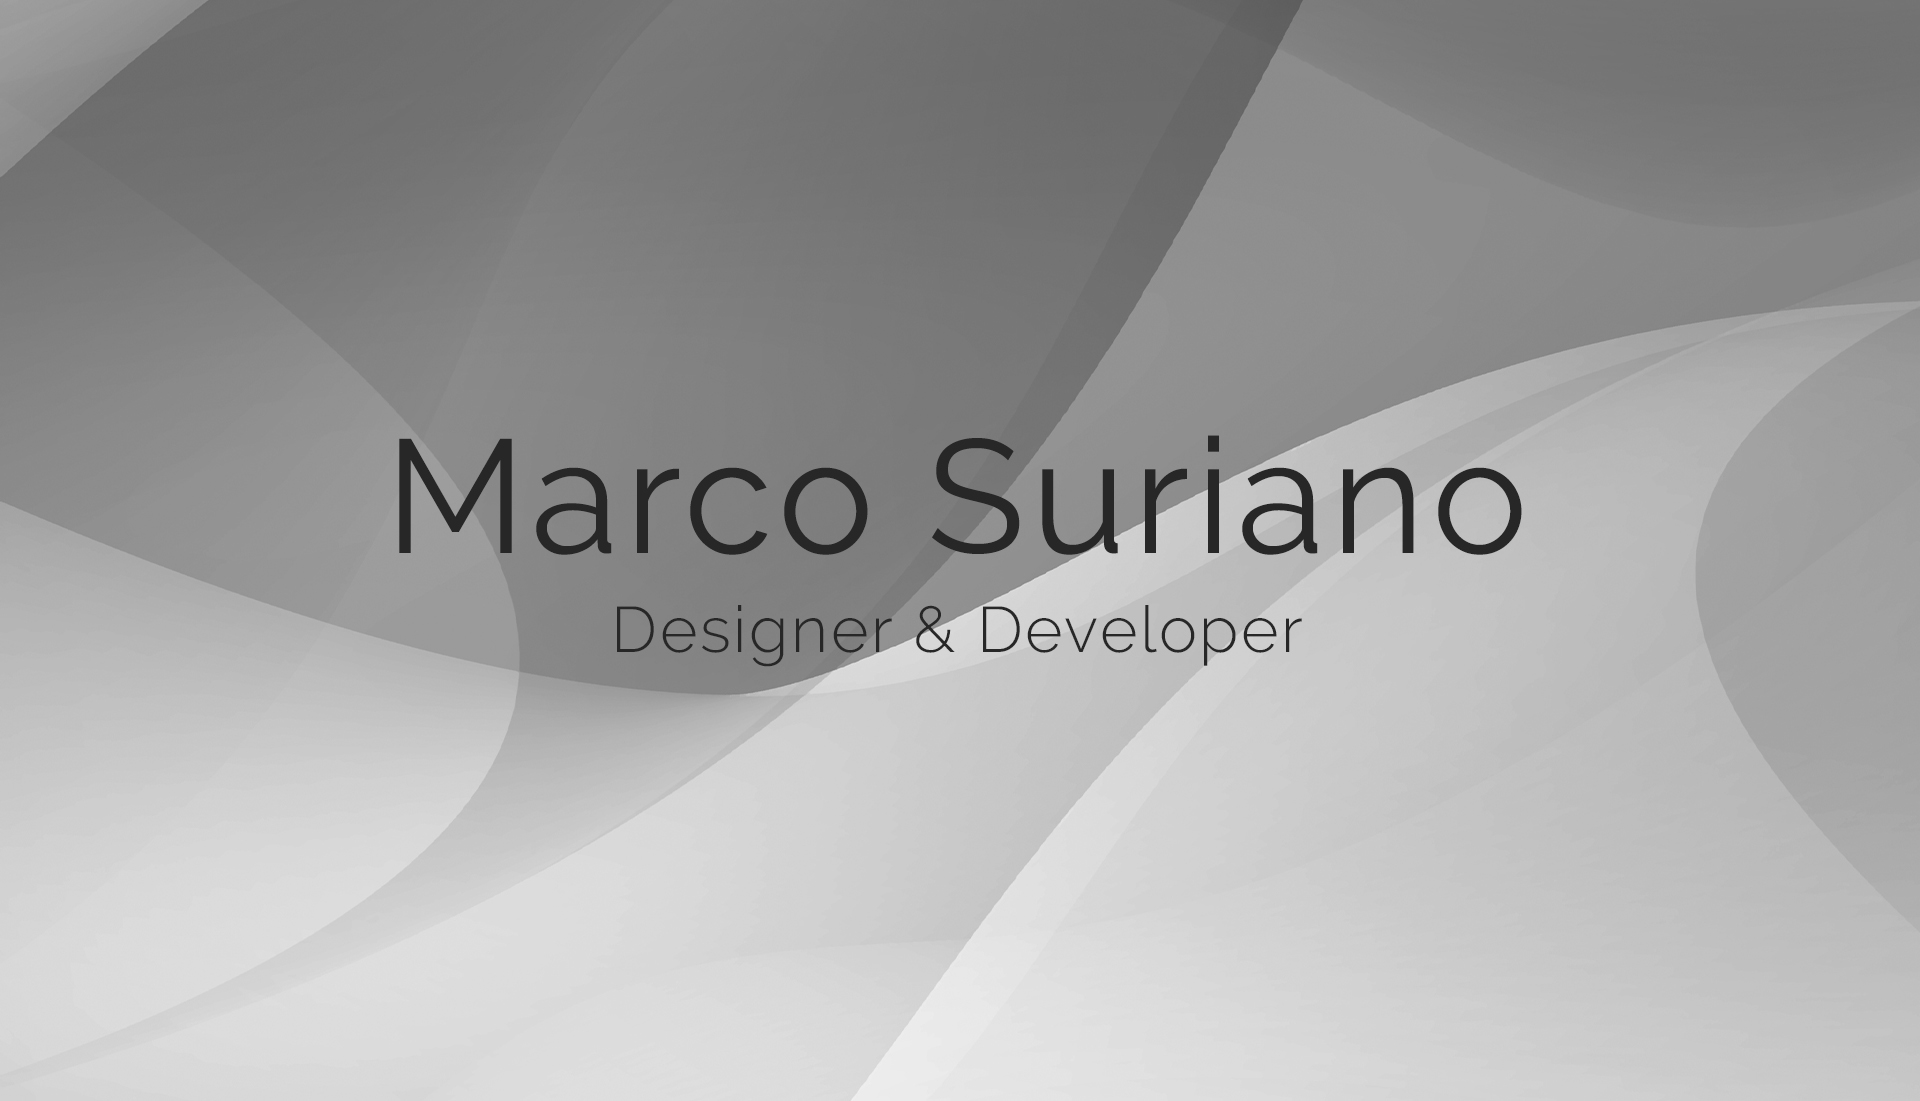
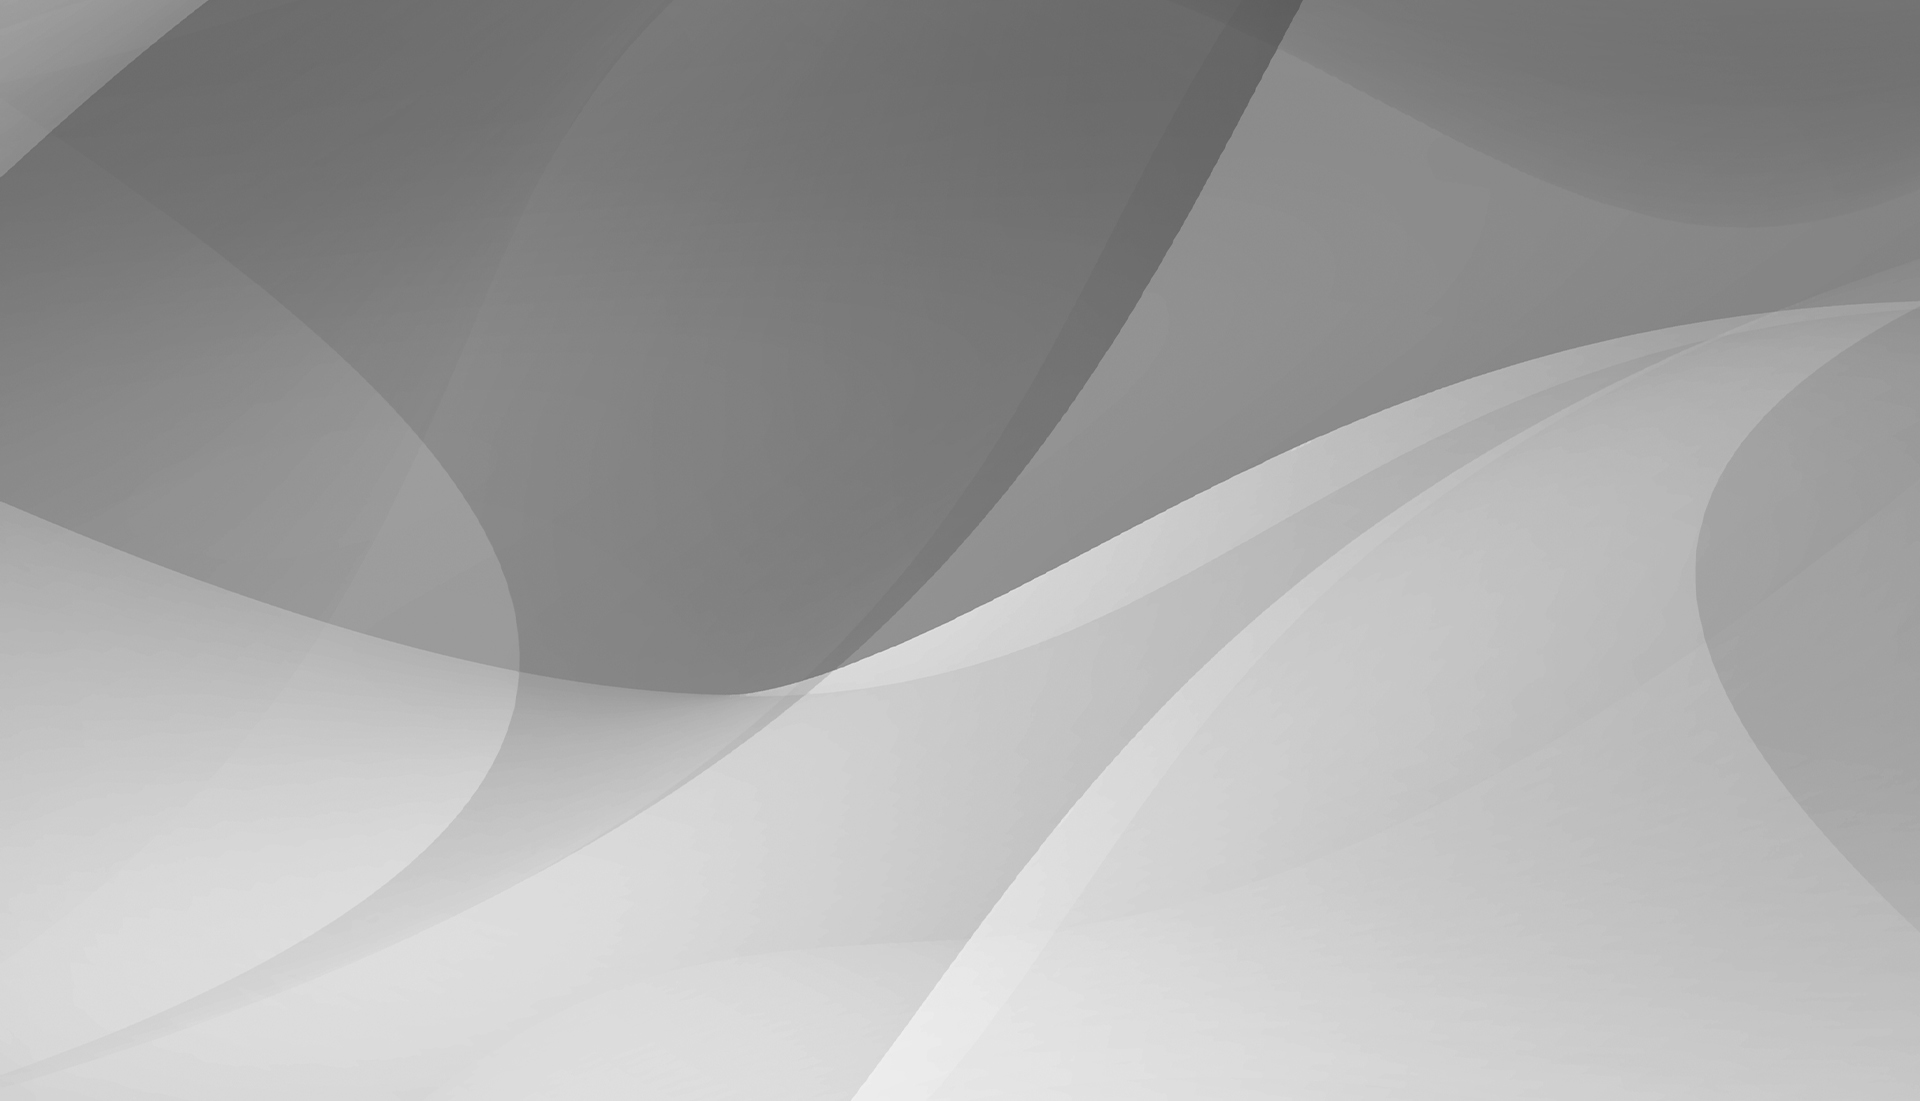
Add

Changed region(s): [[0.1875, 0.4015, 0.8125, 0.525], [0.3125, 0.5559, 0.6875, 0.6176]]

diff --git a/assets/css/style.css b/assets/css/style.css
@@ -389,15 +389,16 @@ canvas {
 
 #hero h1 {
   margin: 0;
-  font-size: 60px;
+  font-size: 100px;
   font-weight: 700;
   color: #fff;
 }
 
 #hero h2 {
-  color: rgb(129, 129, 129);
+  color: rgb(37, 37, 37);
+  display: block;
   margin: 15px 0 0 0;
-  font-size: 18px;
+  font-size: 23px;
 }
 
 #hero .btn-get-started {
@@ -426,10 +427,10 @@ canvas {
     padding-top: 58px;
   }
   #hero h1 {
-    font-size: 28px;
+    font-size: 60px;
   }
   #hero h2 {
-    font-size: 18px;
+    font-size: 22px;
     line-height: 24px;
   }
 }

diff --git a/index.html b/index.html
@@ -58,14 +58,13 @@
 
   <!-- ======= Hero Section ======= -->
   <section id="hero" class="d-flex align-items-center">
-
-    <div class="container" data-aos="zoom-out" data-aos-delay="100">
-      <div class="row">
-        <div class="col-xl-6">
-        </div>
-      </div>
-    </div>
+    <div class="hero1" data-aos="zoom-out" >
+      <h1>Marco Suriano</h1>
+      <h2>- Developer & Designer -</h2>
+    </div>  
   </section><!-- End Hero -->
+  
+  <main id="main">
 
   
 
